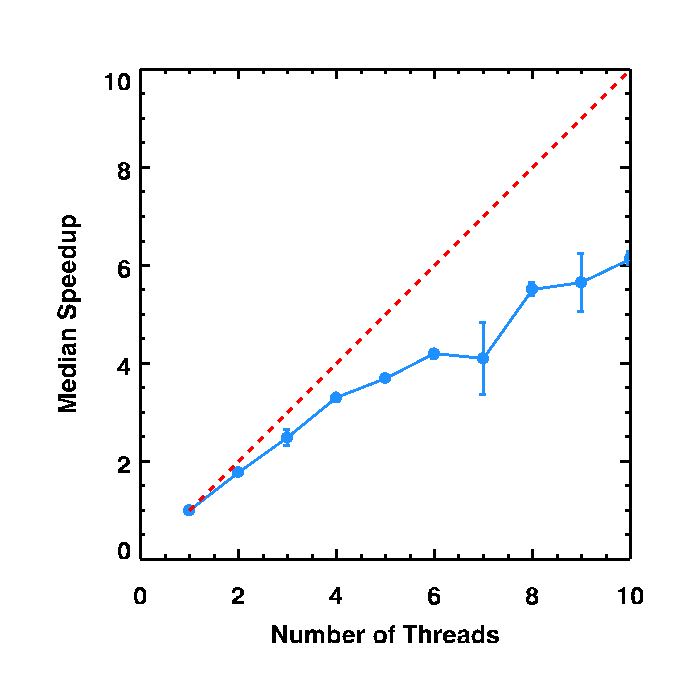
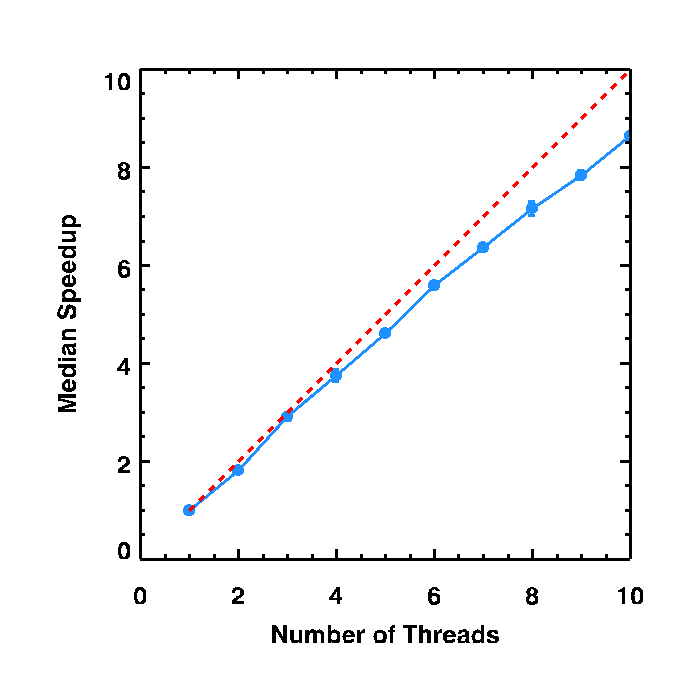
Moved the scalar sorting into the actual cells and OpenMP'ized them (if enabled). Produces much better scaling with nthreads -- updated timings and plot as well

diff --git a/xi_theory/wp/countpairs_wp.c b/xi_theory/wp/countpairs_wp.c
@@ -103,18 +103,27 @@ results_countpairs_wp *countpairs_wp(const int64_t ND1, DOUBLE * restrict X1, DO
 	const DOUBLE sqr_rpmin = rupp_sqr[0];
 	const DOUBLE sqr_rpmax = rupp_sqr[nbin-1];
 	
-	//Sort the arrays on z
-#define MULTIPLE_ARRAY_EXCHANGER(type,a,i,j) { SGLIB_ARRAY_ELEMENTS_EXCHANGER(DOUBLE,X1,i,j); \
-	SGLIB_ARRAY_ELEMENTS_EXCHANGER(DOUBLE,Y1,i,j); \
-	SGLIB_ARRAY_ELEMENTS_EXCHANGER(DOUBLE,Z1,i,j) }
-
-	SGLIB_ARRAY_QUICK_SORT(DOUBLE, Z1, ND1, SGLIB_NUMERIC_COMPARATOR , MULTIPLE_ARRAY_EXCHANGER);
-
   //set up the 3-d grid structure. Each element of the structure contains a
   //pointer to the cellarray structure that itself contains all the points
   cellarray *lattice = gridlink(ND1, X1, Y1, Z1, xmin, xmax, ymin, ymax, zmin, zmax, rpmax, rpmax, pimax, bin_refine_factor, bin_refine_factor, zbin_refine_factor, &nmesh_x, &nmesh_y, &nmesh_z);
   const int64_t totncells = nmesh_x*nmesh_y*(int64_t) nmesh_z;
+#ifdef USE_OMP
+  omp_set_num_threads(numthreads);
+#pragma omp parallel for schedule(dynamic)
+#endif
+	for(int64_t icell=0;icell<totncells;icell++) {
+		const cellarray *first=&(lattice[icell]);
+		DOUBLE *x = first->x;
+		DOUBLE *y = first->y;
+		DOUBLE *z = first->z;
+#define MULTIPLE_ARRAY_EXCHANGER(type,a,i,j) { SGLIB_ARRAY_ELEMENTS_EXCHANGER(DOUBLE,x,i,j); \
+			SGLIB_ARRAY_ELEMENTS_EXCHANGER(DOUBLE,y,i,j);										\
+			SGLIB_ARRAY_ELEMENTS_EXCHANGER(DOUBLE,z,i,j) }
+		
+		SGLIB_ARRAY_QUICK_SORT(DOUBLE, z, first->nelements, SGLIB_NUMERIC_COMPARATOR , MULTIPLE_ARRAY_EXCHANGER);
+	}
 
+	
 #ifdef USE_AVX
   AVX_FLOATS m_rupp_sqr[nbin];
 	for(int i=0;i<nbin;i++) {
@@ -130,7 +139,6 @@ results_countpairs_wp *countpairs_wp(const int64_t ND1, DOUBLE * restrict X1, DO
 	
 
 #ifdef USE_OMP
-  omp_set_num_threads(numthreads);
   uint64_t **all_npairs = (uint64_t **) matrix_calloc(sizeof(uint64_t), numthreads, nbin);
 #ifdef OUTPUT_RPAVG
 	DOUBLE **all_rpavg = (DOUBLE **) matrix_calloc(sizeof(DOUBLE), numthreads, nbin);
